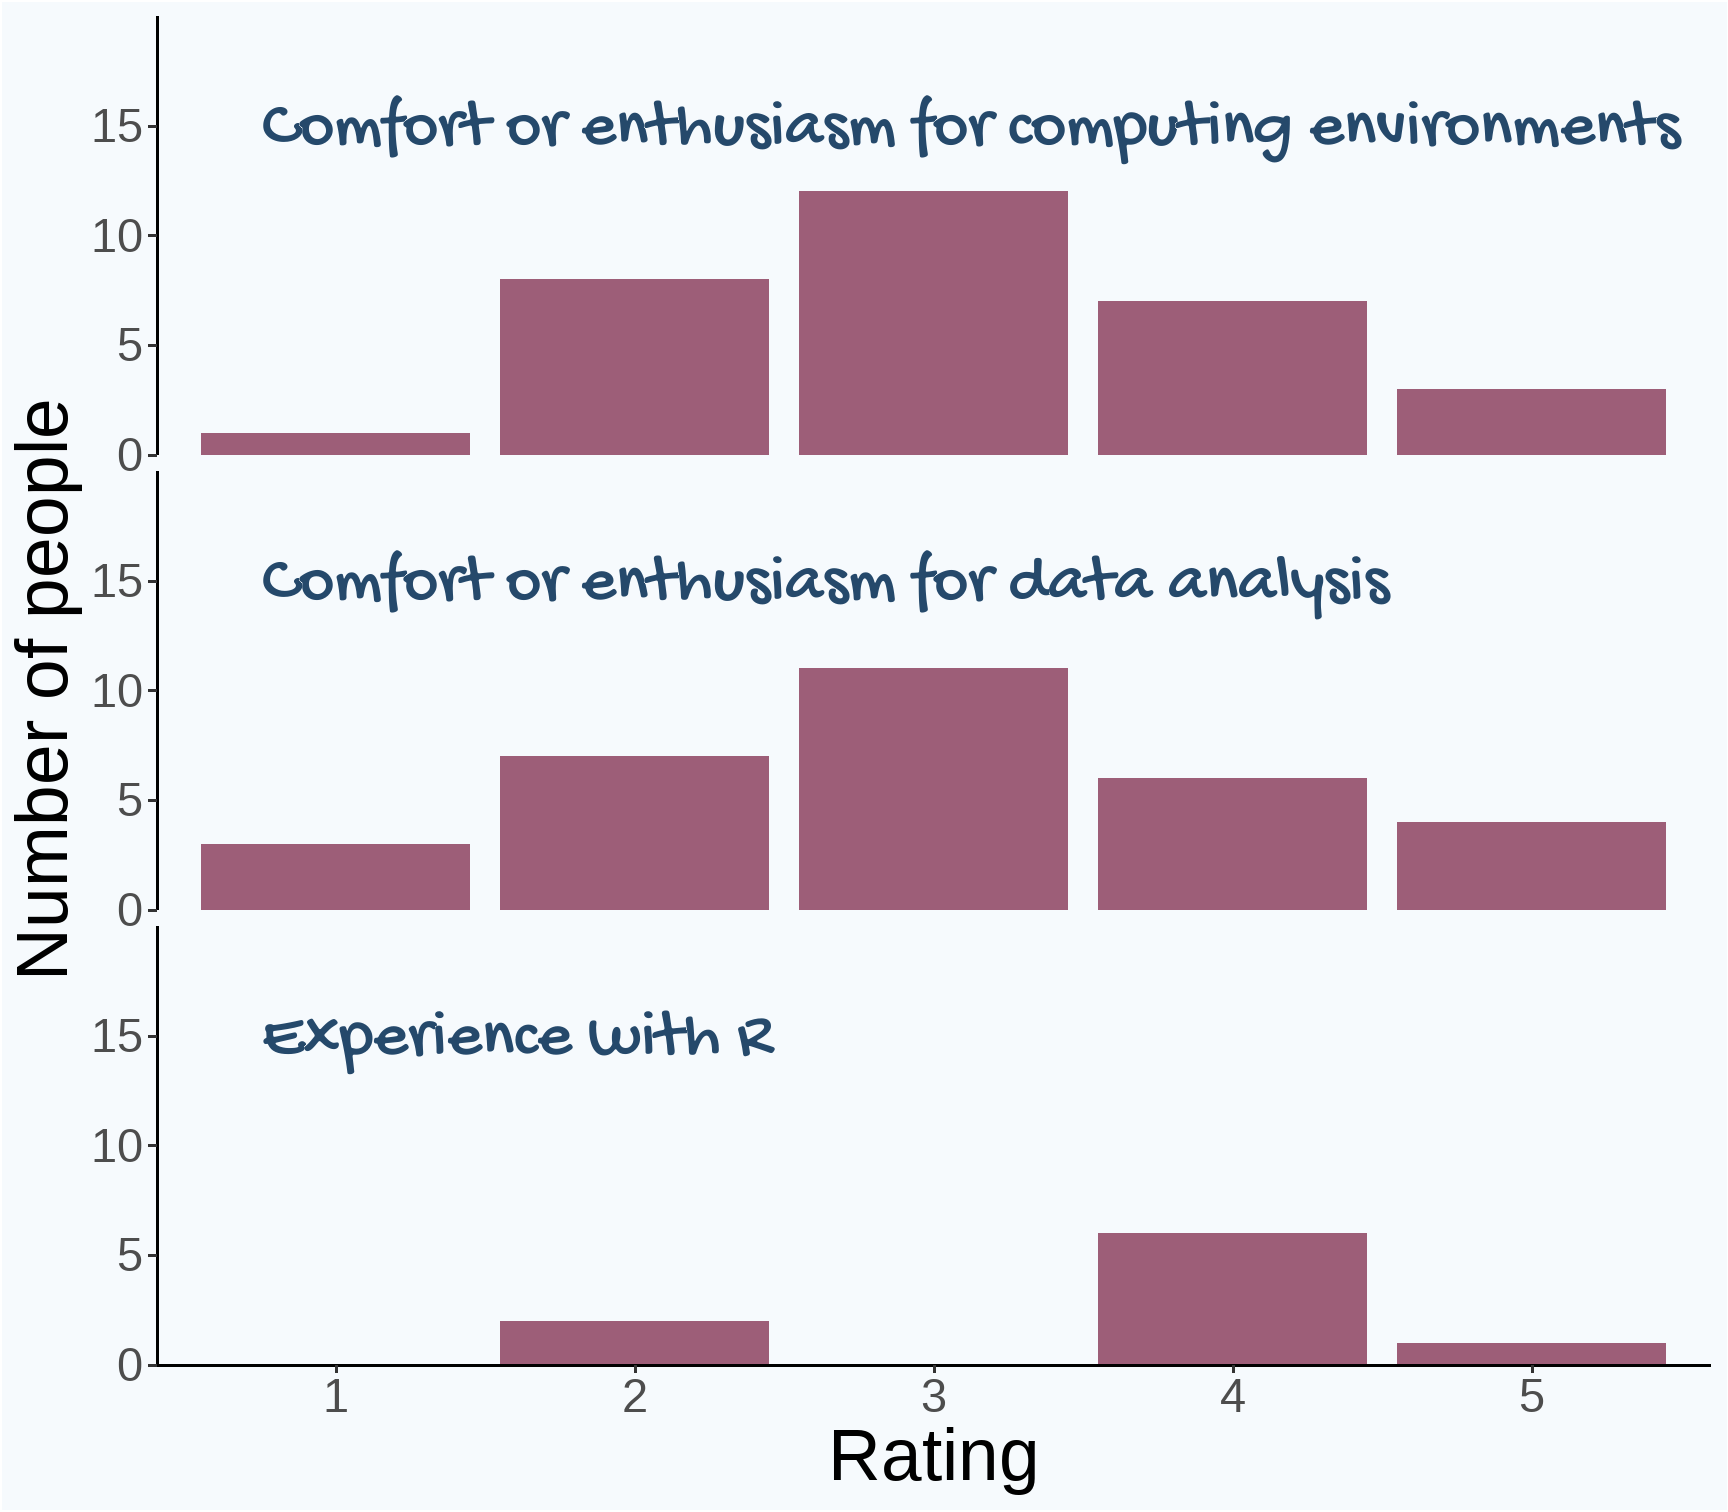
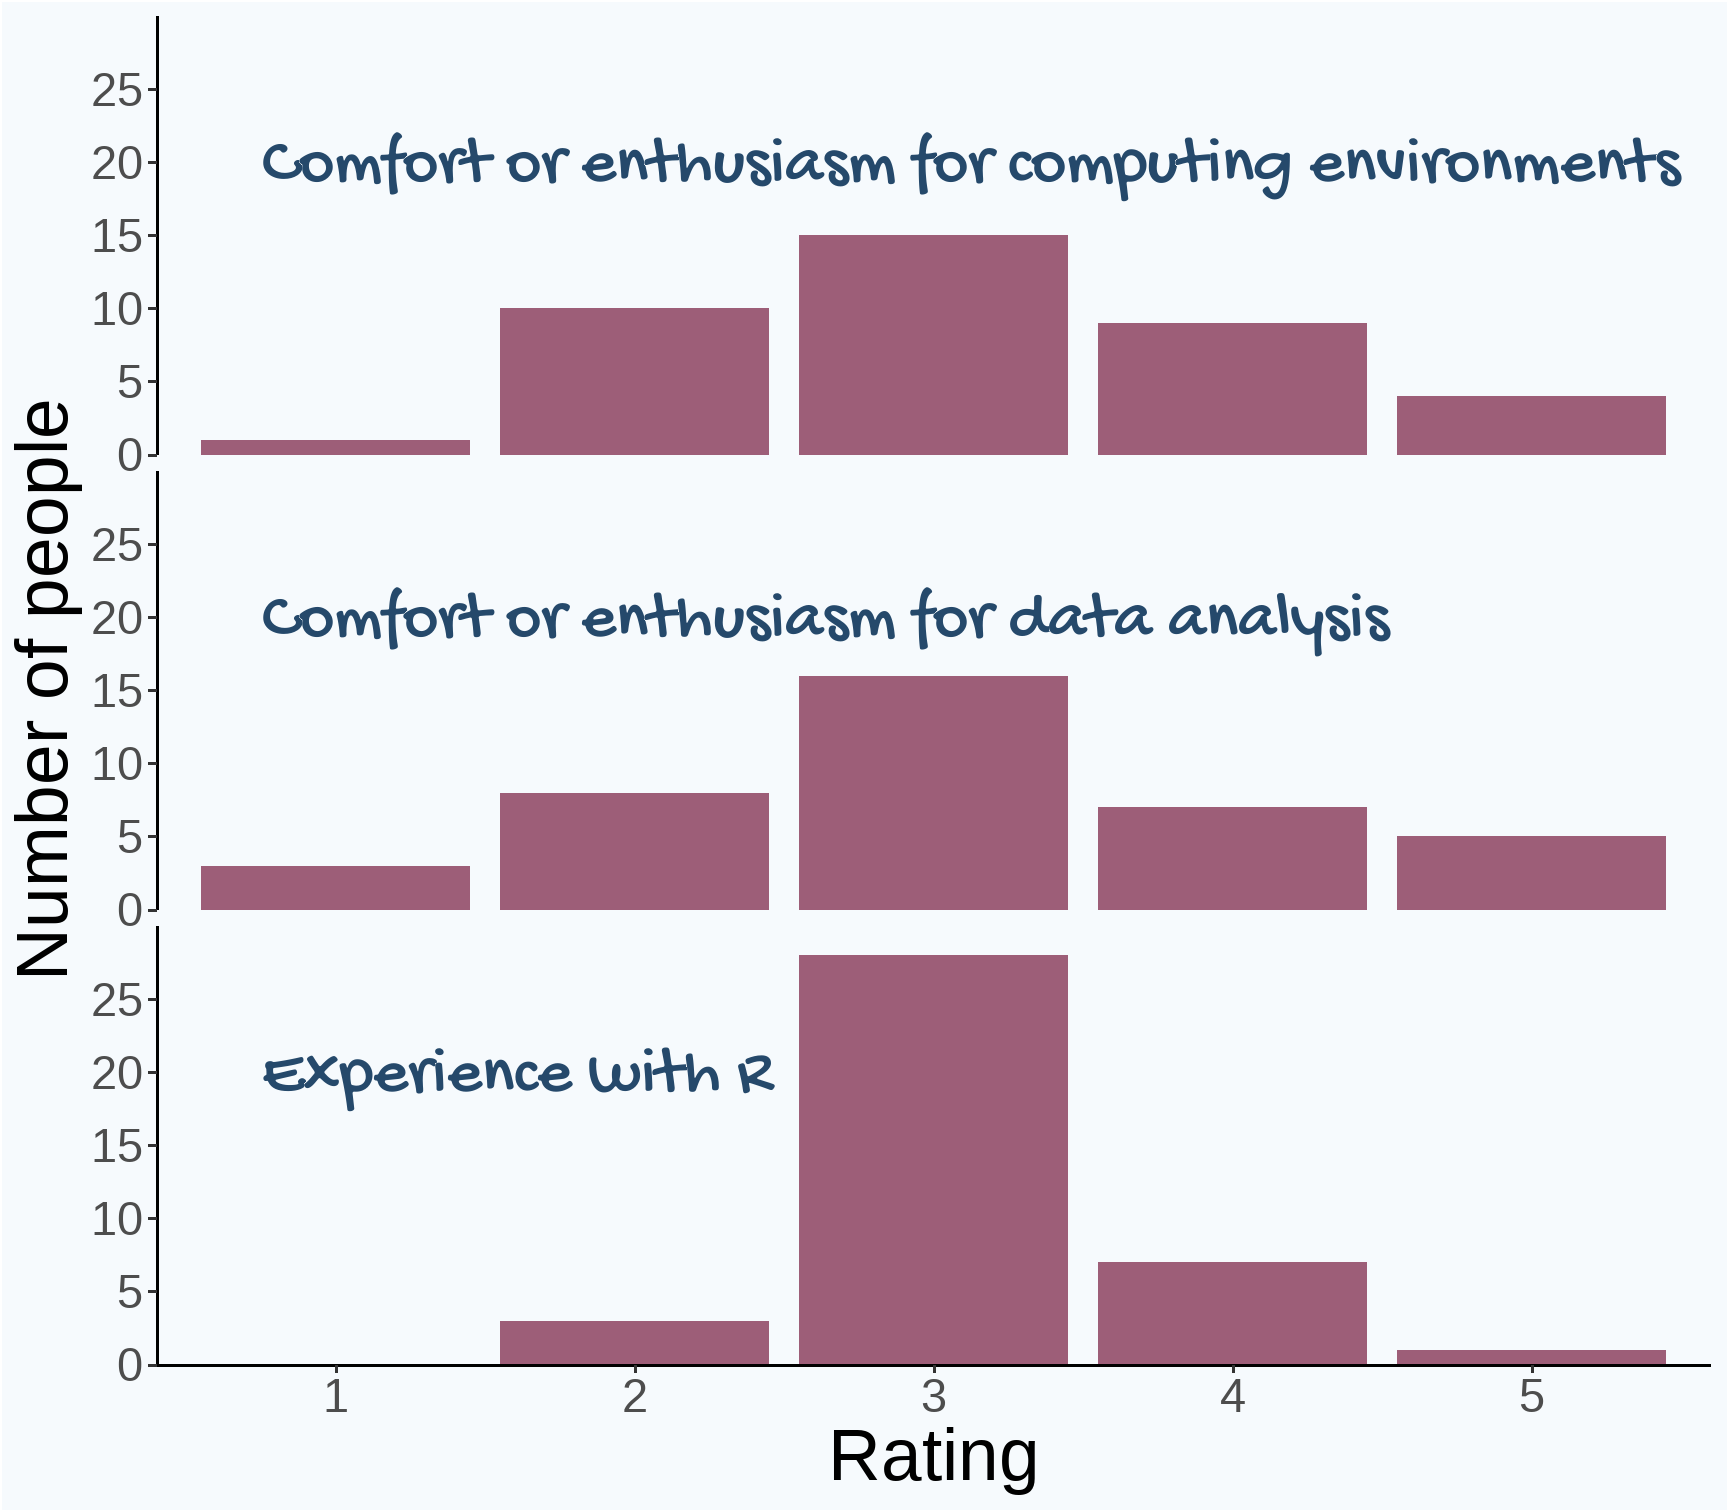
survey results added

diff --git a/slides/00_intro_to_module.html b/slides/00_intro_to_module.html
@@ -5,6 +5,8 @@
     <meta charset="utf-8" />
     <meta name="author" content="Emma Rand" />
     <link href="libs/remark-css/default.css" rel="stylesheet" />
+    <link href="libs/anchor-sections/anchor-sections.css" rel="stylesheet" />
+    <script src="libs/anchor-sections/anchor-sections.js"></script>
     <script src="libs/clipboard/clipboard.min.js"></script>
     <link href="libs/shareon/shareon.min.css" rel="stylesheet" />
     <script src="libs/shareon/shareon.min.js"></script>
@@ -14,8 +16,8 @@
     <script src="libs/xaringanExtra-clipboard/xaringanExtra-clipboard.js"></script>
     <script>window.xaringanExtraClipboard(null, {"button":"Copy Code","success":"Copied!","error":"Press Ctrl+C to Copy"})</script>
     <link href="libs/xaringanExtra-extra-styles/xaringanExtra-extra-styles.css" rel="stylesheet" />
-    <link rel="stylesheet" href="..\css_files\emma.css" type="text/css" />
-    <link rel="stylesheet" href="..\css_files\emma-fonts.css" type="text/css" />
+    <link rel="stylesheet" href="../css_files/emma.css" type="text/css" />
+    <link rel="stylesheet" href="../css_files/emma-fonts.css" type="text/css" />
   </head>
   <body>
     <textarea id="source">
@@ -61,9 +63,9 @@ div.grey { background-color:#d3d3d3; border-radius: 0px; padding: 0px;}
   * relationship between topics and assessment
 
 ---
-# Aims and Learning Outcomes of 58M
+# Aims &amp; Learning Outcomes
 
-The aim of 58M overall is to enable you to to develop skills in some specific types of ‘data analysis’ by providing supported practice in workshops and opportunities to apply them independently in ‘projects’. This will help you become independent researchers and highly employable.
+The aim of 58M *overall* is to enable you to to develop skills in some specific types of ‘data analysis’ by providing supported practice in workshops and opportunities to apply them independently in ‘projects’. This will help you become independent researchers and highly employable.
 
 --
 
@@ -74,22 +76,28 @@ At the end of this module the successful student will be able to:
 ---
 # Learning Outcomes of Data Science
 
-For Data Science, the first object means:
+For Data Science, the first objective means:
 
 Produce a reproducible data analysis and report. The analysis can emphasise data import, processing, statistical analysis, visualisation or any combination of these.
 
 ---
-# Survey results
+# Survey results 1/3
 
 
-The distribution of ratings you (n = 31) gave in the survey were:
+The distribution of ratings you (n = 39) gave in the survey were:
 &lt;img src="00_intro_to_module_files/figure-html/unnamed-chunk-2-1.png" width="576" /&gt;
 ---
-# Survey results
+# Survey results 2/3
 
-to be added
+Please rate your level of comfort with...
 
+&lt;img src="00_intro_to_module_files/figure-html/unnamed-chunk-3-1.png" width="864" /&gt;
+---
+# Survey results 3/3
 
+Please rate your level of comfort with...
+
+&lt;img src="00_intro_to_module_files/figure-html/unnamed-chunk-4-1.png" width="864" /&gt;
 ---
 # What is Data Science?
 

diff --git a/slides/libs/anchor-sections/anchor-sections.js b/slides/libs/anchor-sections/anchor-sections.js
@@ -1,0 +1,28 @@
+// Anchor sections v1.0 written by Atsushi Yasumoto on Oct 3rd, 2020.
+document.addEventListener('DOMContentLoaded', function() {
+  const h = document.querySelectorAll('h1, h2, h3, h4, h5, h6');
+
+  // Do nothing if sections are already anchored
+  if (Array.from(h).some(x => x.classList.contains('hasAnchor'))) {
+    return null;
+  }
+
+  // Use section id when pandoc runs with --section-divs
+  const section_id = function(x) {
+    return ((x.classList.contains('section') || (x.tagName === 'SECTION'))
+            ? x.id : '');
+  };
+
+  // Add anchors
+  h.forEach(function(x) {
+    const id = x.id || section_id(x.parentElement);
+    if (id === '') {
+      return null;
+    }
+    let anchor = document.createElement('a');
+    anchor.href = '#' + id;
+    anchor.classList = ['anchor-section'];
+    x.classList.add('hasAnchor');
+    x.appendChild(anchor);
+  });
+});

diff --git a/slides/libs/anchor-sections/anchor-sections.css b/slides/libs/anchor-sections/anchor-sections.css
@@ -1,0 +1,4 @@
+/* Styles for section anchors */
+a.anchor-section {margin-left: 10px; visibility: hidden; color: inherit;}
+a.anchor-section::before {content: '#';}
+.hasAnchor:hover a.anchor-section {visibility: visible;}

diff --git a/slides/libs/remark-css/default.css b/slides/libs/remark-css/default.css
@@ -41,7 +41,7 @@ a, a > code {
   float: right;
   width: 47%;
 }
-.pull-right ~ * {
+.pull-right + * {
   clear: both;
 }
 img, video, iframe {
